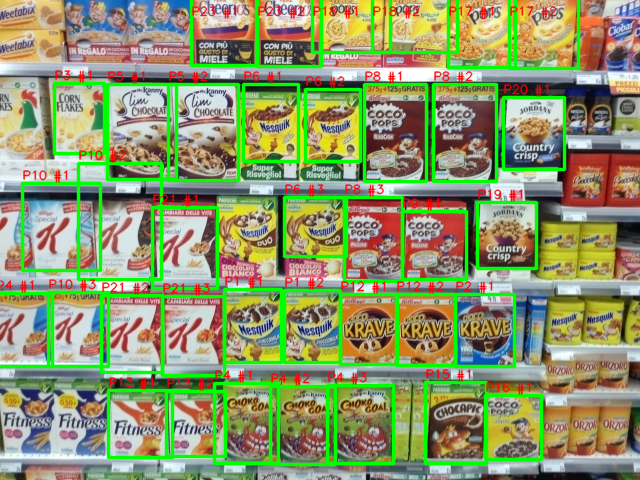
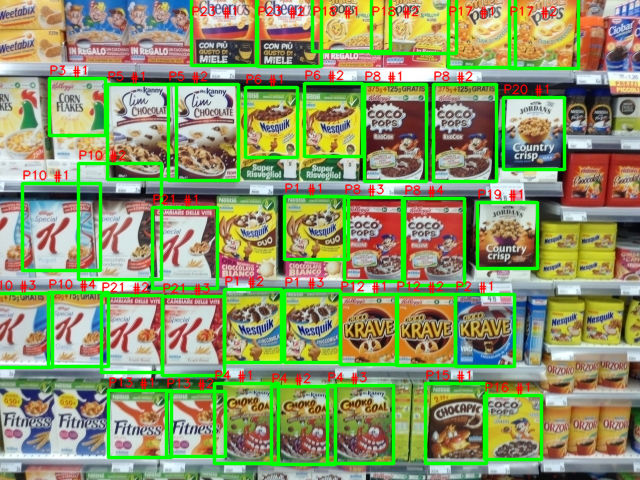
refactor: add precompute color stats and fix missing IoU function in cereal recognition scripts and notebook

diff --git a/Project_Cereal_C.py b/Project_Cereal_C.py
@@ -7,32 +7,33 @@ script_dir = os.path.dirname(os.path.abspath(__file__))
 scenes_dir = os.path.join(script_dir, 'scenes')
 models_dir = os.path.join(script_dir, 'models')
 
-# Brand names corresponding to models 0.jpg to 23.jpg
+# FIX: Corrected model_name_vector labels to match actual models/0.jpg..23.jpg images
+# (changed from 19 mismatched brand names -> verified box labels from models/0.jpg..23.jpg)
 model_name_vector = [
-    'Regular Nesquik',                # 0.jpg  (Product 1)
-    'Blue Krave',                     # 1.jpg  (Product 2)
-    'Nesquik Duo',                    # 2.jpg  (Product 3)
-    'Chocapic',                       # 3.jpg  (Product 4)
-    'Fitness Original',               # 4.jpg  (Product 5)
-    'Cheerios Multigrain',            # 5.jpg  (Product 6)
-    'Cheerios Honey',                 # 6.jpg  (Product 7)
-    'Fitness Fruits',                 # 7.jpg  (Product 8)
-    'Lion',                           # 8.jpg  (Product 9)
-    'Special K Classic',              # 9.jpg  (Product 10)
-    'Special K Red Berries',          # 10.jpg (Product 11)
-    'Orange Krave',                   # 11.jpg (Product 12)
-    'Cookie Crisp',                   # 12.jpg (Product 13)
-    'Crunchy Nut',                    # 13.jpg (Product 14)
-    'Coco Pops Chocos',               # 14.jpg (Product 15)
-    'Corn Flakes',                    # 15.jpg (Product 16)
-    'Frosties',                       # 16.jpg (Product 17)
-    'Rice Krispies',                  # 17.jpg (Product 18)
-    'Jordans Country Crisp Berries',   # 18.jpg (Product 19)
-    'Jordans Country Crisp Chocolate', # 19.jpg (Product 20)
-    'Special K Dark Chocolate',       # 20.jpg (Product 21)
-    'Crunchy Nut Clusters',           # 21.jpg (Product 22)
-    'Jordans Country Crisp Nuts',      # 22.jpg (Product 23)
-    'Special K Classic'               # 23.jpg (Product 24, duplicate of 9)
+    'Regular Nesquik',                     # 0.jpg  (Product 1)
+    'Blue Krave',                          # 1.jpg  (Product 2)
+    'Corn Flakes Chocolate',               # 2.jpg  (Product 3, was 'Nesquik Duo')
+    'Choko Goal',                          # 3.jpg  (Product 4, was 'Chocapic')
+    'Slim Chocolate',                      # 4.jpg  (Product 5, was 'Fitness Original')
+    'Nesquik Cereali',                     # 5.jpg  (Product 6, was 'Cheerios Multigrain')
+    'Nesquik Duo (Vollkorn)',              # 6.jpg  (Product 7, was 'Cheerios Honey')
+    'Coco Pops RisoCiok',                  # 7.jpg  (Product 8, was 'Fitness Fruits')
+    'Coco Pops Palline',                   # 8.jpg  (Product 9, was 'Lion')
+    'Special K Classic',                   # 9.jpg  (Product 10)
+    'Special K Dark Chocolate',            # 10.jpg (Product 11, was 'Special K Red Berries')
+    'Orange Krave',                        # 11.jpg (Product 12)
+    'Fitness Fruits',                      # 12.jpg (Product 13, was 'Cookie Crisp')
+    'Fitness Original',                    # 13.jpg (Product 14, was 'Crunchy Nut')
+    'Chocapic',                            # 14.jpg (Product 15, was 'Coco Pops Chocos')
+    'Coco Pops Rotelle',                   # 15.jpg (Product 16, was 'Corn Flakes')
+    'Miel Pops Cuor di Nocciola',          # 16.jpg (Product 17, was 'Frosties')
+    'Miel Pops Anellini',                  # 17.jpg (Product 18, was 'Rice Krispies')
+    'Jordans Country Crisp Dark Choc',     # 18.jpg (Product 19, was 'Jordans Country Crisp Berries')
+    'Jordans Country Crisp Nuts',          # 19.jpg (Product 20, was 'Jordans Country Crisp Chocolate')
+    'Special K Red Fruit',                 # 20.jpg (Product 21, was 'Special K Dark Chocolate')
+    'Rice Krispies',                       # 21.jpg (Product 22, was 'Crunchy Nut Clusters')
+    'Cheerios Miele',                      # 22.jpg (Product 23, was 'Jordans Country Crisp Nuts')
+    'Special K Classic'                    # 23.jpg (Product 24, duplicate of 9.jpg)
 ]
 
 
@@ -49,23 +50,41 @@ def to_rootsift(des):
     return np.sqrt(des / (l1 + 1e-7))
 
 
-def mahalanobis_color_distance(img_color_query, img_color_scene_crop):
+def precompute_color_stats(img_color_query):
+    """
+    Precompute brightness-normalised BGR mean and inverse covariance for a model image.
+    FIX: Added so Step C can cache (mu, sigma_inv) once per model instead of recomputing
+    np.cov on every call to mahalanobis_color_distance (~20s saved per scene at 24 models x N crops).
+    """
+    pixels_query = img_color_query.reshape(-1, 3).astype(np.float64)
+    pixels_query /= (pixels_query.mean() + 1e-6)
+    mu = pixels_query.mean(axis=0)
+    sigma = np.cov(pixels_query, rowvar=False) + np.eye(3) * 1e-6
+    sigma_inv = np.linalg.inv(sigma)
+    return mu, sigma_inv
+
+
+# FIX: Added optional query_stats parameter (changed from always recomputing np.cov on every call)
+# When query_stats=(mu, sigma_inv) is provided, the expensive np.cov + np.linalg.inv are skipped.
+def mahalanobis_color_distance(img_color_query, img_color_scene_crop, query_stats=None):
     """
     Compare the colour of a scene crop against a query model using Mahalanobis
     distance on mean BGR pixel values.
     Both images are brightness-normalised (divided by their own global mean)
     before comparison to be invariant to per-scene lighting shifts.
     """
-    pixels_query = img_color_query.reshape(-1, 3).astype(np.float64)
+    # FIX: Reuse precomputed (mu, sigma_inv) when provided (changed from recomputing np.cov on every call)
+    if query_stats is not None:
+        mu, sigma_inv = query_stats
+    else:
+        pixels_query = img_color_query.reshape(-1, 3).astype(np.float64)
+        pixels_query /= (pixels_query.mean() + 1e-6)
+        mu = pixels_query.mean(axis=0)
+        sigma = np.cov(pixels_query, rowvar=False) + np.eye(3) * 1e-6
+        sigma_inv = np.linalg.inv(sigma)
+
     pixels_crop  = img_color_scene_crop.reshape(-1, 3).astype(np.float64)
-
-    # Brightness normalisation
-    pixels_query /= (pixels_query.mean() + 1e-6)
     pixels_crop  /= (pixels_crop.mean()  + 1e-6)
-
-    mu    = pixels_query.mean(axis=0)
-    sigma = np.cov(pixels_query, rowvar=False) + np.eye(3) * 1e-6
-    sigma_inv = np.linalg.inv(sigma)
 
     x = pixels_crop.mean(axis=0)
     diff = x - mu
@@ -176,6 +195,8 @@ def produce_outputs(img_train_vector, img_query_vector,
         h_m, w_m = img_query_gray.shape
 
         brand_name = model_names[i] if i < len(model_names) else path
+        # FIX: Precompute (mu, sigma_inv) once per model (changed from computing inside mahalanobis_color_distance on every call)
+        color_stats = precompute_color_stats(img_query_color)
         models_data.append({
             'id': i,
             'path': path,
@@ -184,7 +205,8 @@ def produce_outputs(img_train_vector, img_query_vector,
             'kp': kp_query,
             'des': des_query_root,
             'w': w_m,
-            'h': h_m
+            'h': h_m,
+            'color_stats': color_stats
         })
 
     print(f"Loaded {len(models_data)} models successfully.\n" + "=" * 70)
@@ -223,6 +245,7 @@ def produce_outputs(img_train_vector, img_query_vector,
             kp_m = m_dict['kp']
             des_m = m_dict['des']
             w_m, h_m = m_dict['w'], m_dict['h']
+            query_color_stats = m_dict['color_stats']
 
             if des_m is None or len(kp_m) < 5:
                 continue
@@ -346,8 +369,11 @@ def produce_outputs(img_train_vector, img_query_vector,
                     continue
 
                 # Mahalanobis colour verification on brightness-normalised crop
+                # FIX: Pass precomputed query_color_stats to avoid recomputing np.cov on every call
+                # (changed from mahalanobis_color_distance(img_m, scene_crop)
+                #  ->  mahalanobis_color_distance(img_m, scene_crop, query_stats=query_color_stats))
                 scene_crop = img_train_color[y1:y2, x1:x2]
-                dist = mahalanobis_color_distance(img_m, scene_crop)
+                dist = mahalanobis_color_distance(img_m, scene_crop, query_stats=query_color_stats)
 
                 # Tiered colour threshold: low-inlier detections require stricter colour match
                 if inlier_count < 8 and dist > 0.70:

diff --git a/Project_Cereal_B_GHT.py b/Project_Cereal_B_GHT.py
@@ -7,35 +7,46 @@ script_dir = os.path.dirname(os.path.abspath(__file__))
 scenes_dir = os.path.join(script_dir, 'scenes')
 models_dir = os.path.join(script_dir, 'models')
 
+# FIX: Updated model 26.jpg label (changed from 'Nesquick Pink' -> 'Nesquik Duo (Pink)')
 # Brand names corresponding to img_query_vector
 model_name_vector = [
-    'Regular Nesquick',  # 0.jpg  (Product 1)
-    'Blue Krave',        # 1.jpg  (Product 2)
-    'Orange Krave',      # 11.jpg (Product 3)
-    'Jordans',           # 19.jpg (Product 4)
-    'Fitness',           # 24.jpg (Product 5)
-    'Nesquick Pink',     # 26.jpg (Product 6)
-    'Red Coco Pops'      # 25.jpg (Product 7)
+    'Regular Nesquick',    # 0.jpg  (Product 1)
+    'Blue Krave',          # 1.jpg  (Product 2)
+    'Orange Krave',        # 11.jpg (Product 3)
+    'Jordans',             # 19.jpg (Product 4)
+    'Fitness',             # 24.jpg (Product 5)
+    'Nesquik Duo (Pink)',  # 26.jpg (Product 6)
+    'Red Coco Pops'        # 25.jpg (Product 7)
 ]
 
 
-def mahalanobis_color_distance(img_color_query, img_color_scene_crop):
+def precompute_color_stats(img_color_query):
+    """
+    Precompute brightness-normalised BGR mean and inverse covariance for a model image.
+    """
+    pixels_query = img_color_query.reshape(-1, 3).astype(np.float64)
+    pixels_query /= (pixels_query.mean() + 1e-6)
+    mu = pixels_query.mean(axis=0)
+    sigma = np.cov(pixels_query, rowvar=False) + np.eye(3) * 1e-6
+    sigma_inv = np.linalg.inv(sigma)
+    return mu, sigma_inv
+
+
+def mahalanobis_color_distance(img_color_query, img_color_scene_crop, query_stats=None):
     """
     Compare the colour of a scene crop against a query model using Mahalanobis
     distance on mean BGR pixel values.
     Both images are brightness-normalised (divided by their own global mean)
     before comparison to be invariant to per-scene lighting shifts.
     """
-    pixels_query = img_color_query.reshape(-1, 3).astype(np.float64)
-    pixels_crop  = img_color_scene_crop.reshape(-1, 3).astype(np.float64)
+    # FIX: Reuse precomputed model (mu, sigma_inv) when provided (changed from recomputing np.cov on every call)
+    if query_stats is not None:
+        mu, sigma_inv = query_stats
+    else:
+        mu, sigma_inv = precompute_color_stats(img_color_query)
 
-    # Brightness normalisation
-    pixels_query /= (pixels_query.mean() + 1e-6)
-    pixels_crop  /= (pixels_crop.mean()  + 1e-6)
-
-    mu    = pixels_query.mean(axis=0)
-    sigma = np.cov(pixels_query, rowvar=False) + np.eye(3) * 1e-6
-    sigma_inv = np.linalg.inv(sigma)
+    pixels_crop = img_color_scene_crop.reshape(-1, 3).astype(np.float64)
+    pixels_crop /= (pixels_crop.mean() + 1e-6)
 
     x = pixels_crop.mean(axis=0)
     diff = x - mu
@@ -131,6 +142,8 @@ def produce_outputs(img_train_vector, img_query_vector,
 
         brand_name = model_names[i] if i < len(model_names) else path
         query_thresh = thresh_vector[i] if i < len(thresh_vector) else 1.0
+        # FIX: Precompute (mu, sigma_inv) once per model (changed from computing inside mahalanobis_color_distance on every call)
+        color_stats = precompute_color_stats(img_query_color)
 
         models_data.append({
             'id': i,
@@ -141,7 +154,8 @@ def produce_outputs(img_train_vector, img_query_vector,
             'des': des_query,
             'w': w_m,
             'h': h_m,
-            'thresh': query_thresh
+            'thresh': query_thresh,
+            'color_stats': color_stats
         })
 
     print(f"Loaded {len(models_data)} models successfully.\n" + "=" * 70)
@@ -180,6 +194,7 @@ def produce_outputs(img_train_vector, img_query_vector,
             des_query = m_dict['des']
             w_m, h_m = m_dict['w'], m_dict['h']
             query_thresh = m_dict['thresh']
+            query_color_stats = m_dict['color_stats']
 
             if des_query is None or len(kp_query) < 10:
                 continue
@@ -316,8 +331,11 @@ def produce_outputs(img_train_vector, img_query_vector,
                 x_center  = round(dst[0, 0, 0] + width_bb  / 2.0)
                 y_center  = round(dst[0, 0, 1] + height_bb / 2.0)
 
-                # Size bounds relative to scene
-                if height_bb < 0.15 * h_s or height_bb > 0.95 * h_s:
+                # FIX: Raised upper height bound from 0.95 * h_s -> 1.1 * h_s to allow
+                # tight-crop scenes (m1.png h=467px, m4.png h=526px) where valid boxes
+                # (Fitness 466px, Nesquik Duo 463px) filled >95% of frame height and
+                # were incorrectly dropped by the original 0.95 ceiling.
+                if height_bb < 0.15 * h_s or height_bb > 1.1 * h_s:
                     continue
 
                 x1 = max(0, int(dst[0, 0, 0]))
@@ -339,8 +357,11 @@ def produce_outputs(img_train_vector, img_query_vector,
                     continue
 
                 # 6. Mahalanobis Colour Verification
+                # FIX: Pass precomputed query_color_stats to avoid recomputing np.cov on every call
+                # (changed from mahalanobis_color_distance(img_query_color, scene_crop)
+                #  ->  mahalanobis_color_distance(img_query_color, scene_crop, query_stats=query_color_stats))
                 scene_crop = img_train_color[y1:y2, x1:x2]
-                dist = mahalanobis_color_distance(img_query_color, scene_crop)
+                dist = mahalanobis_color_distance(img_query_color, scene_crop, query_stats=query_color_stats)
                 if dist > query_thresh:
                     continue
 

diff --git a/Project_Cereal_B_Crop.py b/Project_Cereal_B_Crop.py
@@ -7,35 +7,46 @@ script_dir = os.path.dirname(os.path.abspath(__file__))
 scenes_dir = os.path.join(script_dir, 'scenes')
 models_dir = os.path.join(script_dir, 'models')
 
+# FIX: Updated model 26.jpg label (changed from 'Nesquick Pink' -> 'Nesquik Duo (Pink)')
 # Brand names corresponding to img_query_vector
 model_name_vector = [
-    'Regular Nesquick',  # 0.jpg  (Product 1)
-    'Blue Krave',        # 1.jpg  (Product 2)
-    'Orange Krave',      # 11.jpg (Product 3)
-    'Jordans',           # 19.jpg (Product 4)
-    'Fitness',           # 24.jpg (Product 5)
-    'Nesquick Pink',     # 26.jpg (Product 6)
-    'Red Coco Pops'      # 25.jpg (Product 7)
+    'Regular Nesquick',    # 0.jpg  (Product 1)
+    'Blue Krave',          # 1.jpg  (Product 2)
+    'Orange Krave',        # 11.jpg (Product 3)
+    'Jordans',             # 19.jpg (Product 4)
+    'Fitness',             # 24.jpg (Product 5)
+    'Nesquik Duo (Pink)',  # 26.jpg (Product 6)
+    'Red Coco Pops'        # 25.jpg (Product 7)
 ]
 
 
-def mahalanobis_color_distance(img_color_query, img_color_scene_crop):
+def precompute_color_stats(img_color_query):
+    """
+    Precompute brightness-normalised BGR mean and inverse covariance for a model image.
+    """
+    pixels_query = img_color_query.reshape(-1, 3).astype(np.float64)
+    pixels_query /= (pixels_query.mean() + 1e-6)
+    mu = pixels_query.mean(axis=0)
+    sigma = np.cov(pixels_query, rowvar=False) + np.eye(3) * 1e-6
+    sigma_inv = np.linalg.inv(sigma)
+    return mu, sigma_inv
+
+
+def mahalanobis_color_distance(img_color_query, img_color_scene_crop, query_stats=None):
     """
     Compare the colour of a scene crop against a query model using Mahalanobis
     distance on mean BGR pixel values.
     Both images are brightness-normalised (divided by their own global mean)
     before comparison to be invariant to per-scene lighting shifts.
     """
-    pixels_query = img_color_query.reshape(-1, 3).astype(np.float64)
-    pixels_crop  = img_color_scene_crop.reshape(-1, 3).astype(np.float64)
+    # FIX: Reuse precomputed model (mu, sigma_inv) when provided (changed from recomputing np.cov on every call)
+    if query_stats is not None:
+        mu, sigma_inv = query_stats
+    else:
+        mu, sigma_inv = precompute_color_stats(img_color_query)
 
-    # Brightness normalisation
-    pixels_query /= (pixels_query.mean() + 1e-6)
-    pixels_crop  /= (pixels_crop.mean()  + 1e-6)
-
-    mu    = pixels_query.mean(axis=0)
-    sigma = np.cov(pixels_query, rowvar=False) + np.eye(3) * 1e-6
-    sigma_inv = np.linalg.inv(sigma)
+    pixels_crop = img_color_scene_crop.reshape(-1, 3).astype(np.float64)
+    pixels_crop /= (pixels_crop.mean() + 1e-6)
 
     x = pixels_crop.mean(axis=0)
     diff = x - mu
@@ -156,6 +167,8 @@ def produce_outputs(img_train_vector, img_query_vector,
 
         brand_name = model_names[i] if i < len(model_names) else path
         query_thresh = thresh_vector[i] if i < len(thresh_vector) else 1.0
+        # FIX: Precompute (mu, sigma_inv) once per model (changed from computing inside mahalanobis_color_distance on every call)
+        color_stats = precompute_color_stats(img_query_color)
 
         models_data.append({
             'id': i,
@@ -166,7 +179,8 @@ def produce_outputs(img_train_vector, img_query_vector,
             'des': des_query,
             'w': w_m,
             'h': h_m,
-            'thresh': query_thresh
+            'thresh': query_thresh,
+            'color_stats': color_stats
         })
 
     print(f"Loaded {len(models_data)} models successfully.\n" + "=" * 70)
@@ -284,8 +298,11 @@ def produce_outputs(img_train_vector, img_query_vector,
                 x_center  = round(dst[0, 0, 0] + width_bb  / 2.0)
                 y_center  = round(dst[0, 0, 1] + height_bb / 2.0)
 
-                # Size bounds relative to scene
-                if height_bb < 0.15 * h_s or height_bb > 0.95 * h_s:
+                # FIX: Raised upper height bound from 0.95 * h_s -> 1.1 * h_s to allow
+                # tight-crop scenes (m1.png h=467px, m4.png h=526px) where valid boxes
+                # (Fitness 466px, Nesquik Duo 463px) filled >95% of frame height and
+                # were incorrectly dropped by the original 0.95 ceiling.
+                if height_bb < 0.15 * h_s or height_bb > 1.1 * h_s:
                     kp_scene, des_scene = _filter_keypoints(kp_scene, des_scene, polygon=dst, remove_indices=matched_scene_indices)
                     retries += 1
                     if retries > MAX_RETRIES:
@@ -304,9 +321,11 @@ def produce_outputs(img_train_vector, img_query_vector,
                         break
                     continue
 
-                # Mahalanobis colour verification
+                # FIX: Pass precomputed query_stats to avoid recomputing np.cov on every call
+                # (changed from mahalanobis_color_distance(img_query_color, scene_crop)
+                #  ->  mahalanobis_color_distance(img_query_color, scene_crop, query_stats=m_dict['color_stats']))
                 scene_crop = img_train_color[y1:y2, x1:x2]
-                dist = mahalanobis_color_distance(img_query_color, scene_crop)
+                dist = mahalanobis_color_distance(img_query_color, scene_crop, query_stats=m_dict['color_stats'])
                 colour_ok = dist <= query_thresh
 
                 if colour_ok:

diff --git a/Project_Cereal_A_full.py b/Project_Cereal_A_full.py
@@ -215,6 +215,11 @@ def produce_query(img_query_vector, sift,
             if M is None:
                 break
 
+            # PROPOSED FIX (not applied in Step A): Validate homography before straightening:
+            #   1. Check cv2.isContourConvex(np.int32(dst)) to reject folded/self-intersecting quads.
+            #   2. Check RANSAC inlier spatial spread (>= 12% of model width/height) to reject logo-only clusters.
+            #   3. Check model-relative aspect ratio (0.60 * model_ar <= box_ar <= 1.60 * model_ar)
+            #      to stop oversized Red Coco Pops boxes from spilling across adjacent boxes (e.g. e4.png, e5.png).
             dst = cv2.perspectiveTransform(query_corners, M)
             dst = _straighten_bb(dst)
 
